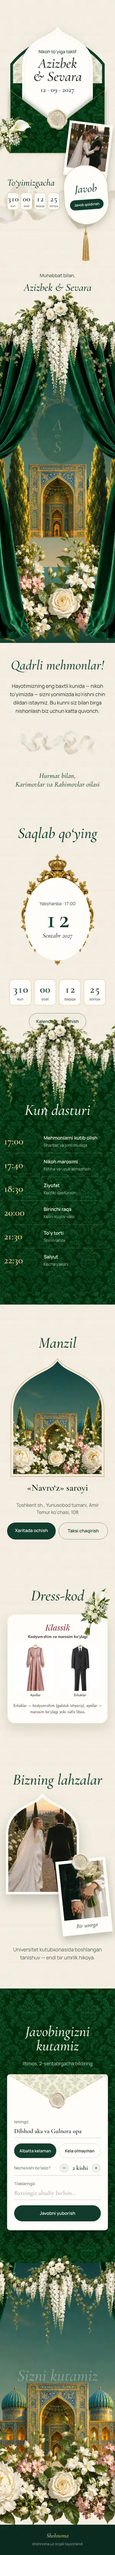
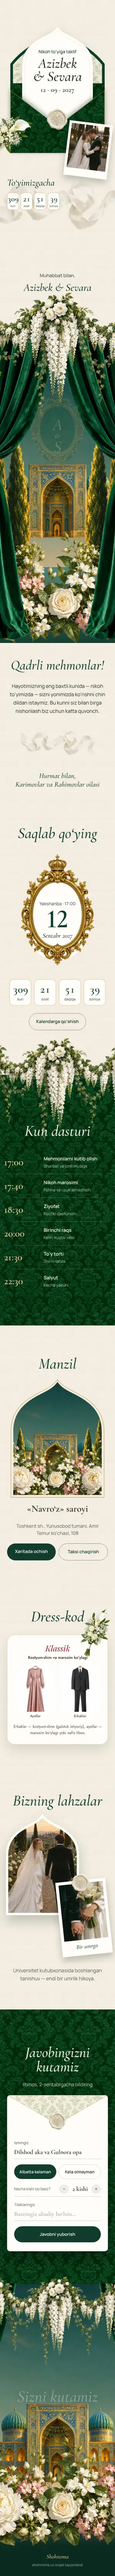
Zumrad: katta ekranlarda (1920+) proporsional; gul to‘shagi choklari yo‘q; final pastki chiziq; sana raqamlari; kalendar tugmasi ochildi; «Javob» yorlig‘i olib tashlandi
Claude-Session: https://claude.ai/code/session_016Xzx6FBjREiHoteT8V9Jy8

Changed region(s): [[0.0, 0.0, 1.0, 0.9974], [0.06, 0.7792, 0.09, 0.8104]]

diff --git a/src/components/templates/zumrad/ZumradSite.tsx b/src/components/templates/zumrad/ZumradSite.tsx
@@ -300,7 +300,6 @@ function Collage({ d, wide, ready }: { d: D; wide: boolean; ready: boolean }) {
   const v: V = (m, l) => U(wide ? l : m);
   const k = wide ? 1.5 : 1;
   const sh = (speed: number) => `translateY(${((par - 0.5) * (speed - 1) * -120).toFixed(1)}px)`;
-  const toRsvp = () => document.getElementById("zumrad-javob")?.scrollIntoView({ behavior: "smooth", block: "start" });
   return (
     <Sec ready={ready} style={{ paddingTop: v(30, 60), paddingBottom: v(110, 165) }}>
       <div ref={box} className="relative" style={{ width: v(390, 1440), height: v(982, 1472) }}>
@@ -364,22 +363,6 @@ function Collage({ d, wide, ready }: { d: D; wide: boolean; ready: boolean }) {
           </p>
           <TimerRow d={d} run={tIn} size={wide ? { w: 60, h: 87, fs: 39, ls: 13, r: 15, gap: 9 } : { w: 40, h: 58, fs: 26, ls: 9.5, r: 10, gap: 6 }} />
         </div>
-        {/* javob yorlig‘i va kistochka */}
-        <L wide={wide} m={[217, 524.5, 150, 200]} l={[1052, 786, 225, 300]} a="drop" z={6} style={vars({ "--dy": -90, "--r0": "8deg", "--d": "1.6s", "--t": "1.2s", "--e": "var(--spring)" })}>
-          <div className={st.tag} style={{ width: "100%", height: "100%", borderRadius: U(75 * k), rotate: "-4deg", gap: U(8 * k) }}>
-            <p className={st.italic} style={{ fontSize: U(38 * k), color: "var(--green)" }}>
-              Javob
-            </p>
-            <button type="button" onClick={toRsvp} className={st.btnGreen} style={{ fontSize: U(12 * k), padding: `${U(8 * k)} ${U(14 * k)}` }}>
-              Javob qoldirish
-            </button>
-          </div>
-        </L>
-        <L wide={wide} m={[242.25, 724, 97.5, 130]} l={[1090.9, 1086, 146.25, 195]} a="fade" z={5} style={vars({ "--d": "1.8s" })}>
-          <div className={st.pendulum} style={{ width: "100%", height: "100%" }}>
-            <Img src={`${Z}/kistochka.webp`} className={st.contain} />
-          </div>
-        </L>
         {/* imzo */}
         <div data-a="up" className="absolute flex flex-col items-center text-center" style={vars({ left: "50%", translate: "-50% 0", top: v(884, 1326), gap: U(2), "--d": "0.3s", "--y": 30, zIndex: 6 })}>
           <p style={{ fontSize: v(16, 22), fontWeight: 500, color: "#45544d" }}>Muhabbat bilan,</p>
@@ -409,9 +392,9 @@ function Garden({ d, wide, ready, variant = "open", onSeen }: { d: D; wide: bool
   const { p, o } = vals;
   const ty = (speed: number) => (p - 0.5) * (speed - 1) * -260;
   const px = (n: number) => (wide ? ptr.x * n : 0);
-  const bed = 1 + seg(p, 0.72, 1) * 0.25 * (variant === "open" ? 1 : 0);
+  // bir nechta yonma-yon to‘shak (laptop) alohida kattalashsa — chegaralari ochiladi; faqat mobil (bitta to‘shak)
+  const bed = 1 + seg(p, 0.72, 1) * 0.25 * (variant === "open" && !wide ? 1 : 0);
   const H = variant === "open" ? (wide ? 920 : 1040) : wide ? 900 : 880;
-  const curtainShift = (1 - o) * (wide ? 0 : 0) + o * (wide ? 180 : 180);
   const layer = (style: CSSProperties): CSSProperties => ({ ...style, position: "absolute" });
 
   // Sarvlar va gullar joylashuvi
@@ -433,17 +416,17 @@ function Garden({ d, wide, ready, variant = "open", onSeen }: { d: D; wide: bool
       ];
   const beds: [number, number, number, number, boolean][] = wide
     ? variant === "close"
-      ? [
+      ? // gul to‘shagi chetlari shaffof emas — ko‘zgu aksi bilan yonma-yon (ustma-ust emas), chegara ko‘rinmasin
+        [
           [-150, 517.32, 680, 382.68, false],
-          [380, 517.32, 680, 382.68, true],
-          [910, 517.32, 680, 382.68, false],
+          [530, 517.32, 680, 382.68, true],
+          [1210, 517.32, 680, 382.68, false],
         ]
       : [
-        [-150, 520, 700, 394, false],
-        [250, 520, 700, 394, true],
-        [650, 520, 700, 394, false],
-        [1050, 520, 700, 394, true],
-      ]
+          [-150, 520.06, 700, 393.94, false],
+          [550, 520.06, 700, 393.94, true],
+          [1250, 520.06, 700, 393.94, false],
+        ]
     : [[-235, variant === "open" ? 550 : 396, 860, 484, false]];
   const madrasa = wide ? (variant === "open" ? [310, 300, 820, 461.5] : [360, 495.32, 720, 405.2]) : variant === "open" ? [-85, 470, 560, 315] : [-105, 430, 600, 338];
 
@@ -464,6 +447,10 @@ function Garden({ d, wide, ready, variant = "open", onSeen }: { d: D; wide: bool
             <Img src={`${Z}/madrasa.webp`} />
           </div>
         </div>
+      )}
+      {variant === "close" && (
+        /* gullar ostida osmon chizig‘i qolmasin — pastga footer rangiga silliq o‘tadi */
+        <div className="absolute inset-x-0 bottom-0" style={{ height: U(wide ? 200 : 170), zIndex: 2, background: "linear-gradient(rgba(12,42,32,0), rgba(12,42,32,.85) 55%, #0c2a20)" }} />
       )}
       {(variant === "open" || wide) &&
         cypress.map(([x, y, w, h, flip], i) => (
@@ -504,10 +491,10 @@ function Garden({ d, wide, ready, variant = "open", onSeen }: { d: D; wide: bool
       {variant === "open" ? (
         /* oltin ramka: ichida monogramma → ismlar */
         <div className="absolute" style={{ left: `calc(50% - ${U(wide ? 150 : 135)})`, top: U(wide ? 90 : 150), width: U(wide ? 300 : 270), height: U(wide ? 400 : 360), transform: `translate(${px(-8)}px, ${ty(0.9)}px) scale(${0.8 + o * 0.2})`, opacity: 0.2 + o * 0.8, zIndex: 6 }}>
-          <div className="absolute" style={{ left: "17.6%", top: "21%", width: "74%", height: "70%" }}>
+          <div className="absolute" style={{ left: "13%", top: "21%", width: "74%", height: "70%" }}>
             <Img src={`${Z}/oval-baxmal.webp`} className={st.contain} />
           </div>
-          <Img src={`${Z}/ramka.webp`} className={st.contain} />
+          <Img src={`${Z}/ramka.webp`} className={cx(st.contain, "absolute inset-0")} />
           <div className={st.monogram} style={{ left: 0, right: 0, top: "38%", color: "var(--gold-2)" }}>
             <span style={{ fontSize: U(wide ? 80 : 72.5), lineHeight: 0.8 }}>{d.mono[0]}</span>
             {d.mono[1] && (
@@ -529,7 +516,6 @@ function Garden({ d, wide, ready, variant = "open", onSeen }: { d: D; wide: bool
           <p style={{ fontSize: U(15), fontWeight: 500, color: "rgba(247,243,234,.85)" }}>{[d.dots, d.city].filter(Boolean).join(" · ")}</p>
         </div>
       )}
-      {curtainShift < 0 && null}
     </section>
   );
 }
@@ -562,7 +548,7 @@ function InviteDate({ d, wide, ready }: { d: D; wide: boolean; ready: boolean })
     </Sec>
   );
   const date = (
-    <Sec ready={ready} style={{ gap: U(26), paddingTop: U(40), paddingBottom: U(80), paddingInline: wide ? 0 : U(24), width: wide ? U(420) : "100%" }}>
+    <Sec ready={ready} style={{ gap: U(26), paddingTop: U(40), paddingBottom: wide ? U(80) : U(150), paddingInline: wide ? 0 : U(24), width: wide ? U(420) : "100%" }}>
       <p data-a="mask" className={cx(st.italic, st.title)} style={{ fontSize: v(52, 46), color: "var(--green)" }}>
         Saqlab qo‘ying
       </p>
@@ -570,10 +556,10 @@ function InviteDate({ d, wide, ready }: { d: D; wide: boolean; ready: boolean })
         <svg className="absolute" style={{ left: U(39), top: U(84), width: U(222), height: U(280) }} viewBox="0 0 222 280" aria-hidden>
           <ellipse cx="111" cy="140" rx="111" ry="140" fill="#FFFDF8" />
         </svg>
-        <Img src={`${Z}/ramka.webp`} className={st.contain} />
+        <Img src={`${Z}/ramka.webp`} className={cx(st.contain, "absolute inset-0")} />
         <div className="absolute inset-x-0 flex flex-col items-center text-center" style={{ top: U(160.5) }}>
           <p style={{ fontSize: U(15), fontWeight: 500, color: "var(--soft)", marginBottom: U(-4) }}>{[d.weekday, d.time].filter(Boolean).join(" · ")}</p>
-          <p className={st.serif} style={{ fontSize: U(88), lineHeight: 1, color: "var(--green)", marginBottom: U(-4), fontVariantNumeric: "tabular-nums" }}>
+          <p className={st.serif} style={{ fontSize: U(88), fontWeight: 600, lineHeight: 1, color: "var(--green)", marginBottom: U(-4), fontVariantNumeric: "lining-nums proportional-nums" }}>
             {day.value || ""}
           </p>
           <p className={st.italic} style={{ fontSize: U(22), color: "var(--ink)" }}>
@@ -982,7 +968,7 @@ export function ZumradSite({ template, data, mode, embedded = false }: Invitatio
   const sfx = wide ? "l" : "m";
   const loaded = usePreload(
     [`${Z}/damask.webp`, `${Z}/qopqoq-${sfx}.webp`, `${Z}/muhr.webp`, `${Z}/paper.webp`],
-    [`${Z}/ichki-qopqoq.webp`, `${Z}/chontak.webp`, `${Z}/lenta.webp`, d.polaroid, `${Z}/kalla.webp`, `${Z}/kistochka.webp`, `${Z}/osmon.webp`, `${Z}/madrasa.webp`, `${Z}/sarv.webp`, `${Z}/gullar.webp`, `${Z}/parda.webp`, `${Z}/gulchambar.webp`, `${Z}/ramka.webp`, `${Z}/oval-baxmal.webp`, d.arch ?? "", d.arch2 ?? "", ...(d.dress ? d.dress.imgs.map((x) => x.src) : []), `${Z}/anketa-qopqoq.webp`],
+    [`${Z}/ichki-qopqoq.webp`, `${Z}/chontak.webp`, `${Z}/lenta.webp`, d.polaroid, `${Z}/kalla.webp`, `${Z}/osmon.webp`, `${Z}/madrasa.webp`, `${Z}/sarv.webp`, `${Z}/gullar.webp`, `${Z}/parda.webp`, `${Z}/gulchambar.webp`, `${Z}/ramka.webp`, `${Z}/oval-baxmal.webp`, d.arch ?? "", d.arch2 ?? "", ...(d.dress ? d.dress.imgs.map((x) => x.src) : []), `${Z}/anketa-qopqoq.webp`],
     withGate,
     sfx,
   );
@@ -1026,7 +1012,7 @@ export function ZumradSite({ template, data, mode, embedded = false }: Invitatio
 
   return (
     <div ref={root} className={cx(st.root, wide && st.wide)}>
-      <div className={st.page} style={vars({ "--u": wide ? "min(1px, calc(100cqw / 1440))" : "min(1.15px, calc(100cqw / 390))" })}>
+      <div className={st.page} style={vars({ "--u": wide ? "calc(100cqw / 1440)" : "calc(100cqw / 390)" })}>
         <div className={st.paperBg} />
         <MusicButton m={music} wide={wide} embedded={embedded} />
         {withGate && !loaderGone && <Loader done={loaded} seal={`${Z}/muhr.webp`} />}

diff --git a/src/components/templates/anor/AnorSite.tsx b/src/components/templates/anor/AnorSite.tsx
@@ -1098,7 +1098,7 @@ export function AnorSite({ template, data, mode, embedded = false }: InvitationS
 
   return (
     <div ref={root} className={cx(st.root, wide && st.wide)}>
-      <div className={st.page} style={vars({ "--u": wide ? "min(1px, calc(100cqw / 1440))" : "min(1.15px, calc(100cqw / 390))" })}>
+      <div className={st.page} style={vars({ "--u": wide ? "calc(100cqw / 1440)" : "calc(100cqw / 390)" })}>
         <div className={st.paperBg} />
         <MusicButton m={music} wide={wide} embedded={embedded} />
         {withGate && !loaderGone && <Loader done={loaded} seal={`${A}/muhr.webp`} />}

diff --git a/src/lib/tplImgVersions.ts b/src/lib/tplImgVersions.ts
@@ -4,8 +4,8 @@ export const tplImgVersions: Record<string, string> = {
   "anor-laptop.webp": "4235a267",
   "anor-phone-long.webp": "ba045927",
   "anor-phone.webp": "ca0dfc6a",
-  "zumrad-laptop-long.webp": "388c2645",
-  "zumrad-laptop.webp": "717f1546",
-  "zumrad-phone-long.webp": "a5562b9a",
-  "zumrad-phone.webp": "94182d80"
+  "zumrad-laptop-long.webp": "7a10a565",
+  "zumrad-laptop.webp": "71dd0387",
+  "zumrad-phone-long.webp": "a7a1ce8c",
+  "zumrad-phone.webp": "b9e20728"
 };
